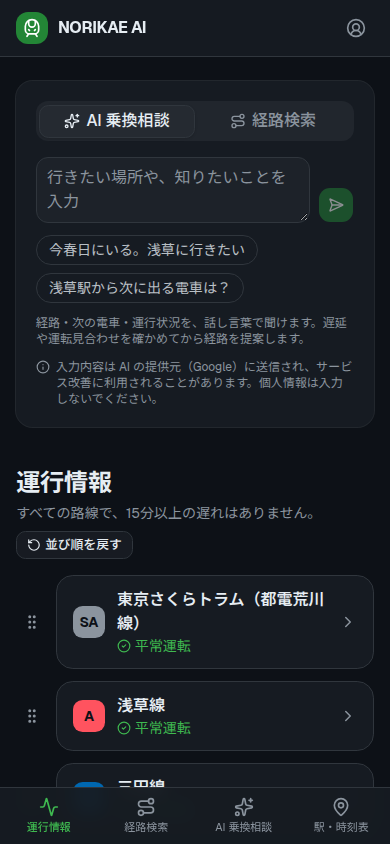
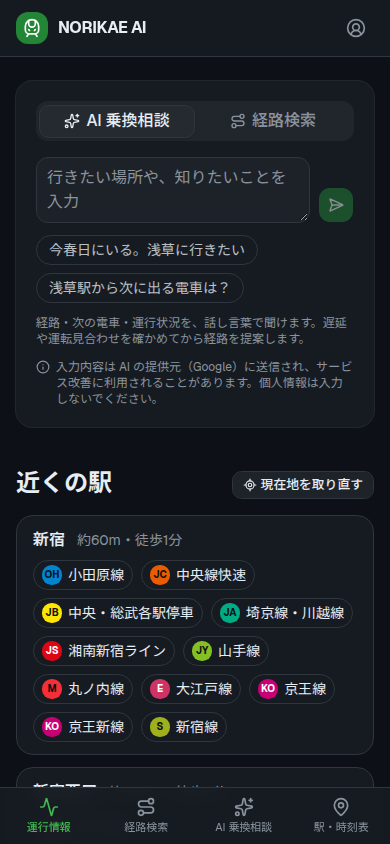
docs: ホームのスクリーンショットを、近くの駅の欄がある今の画面に撮り直す

Changed region(s): [[0.0308, 0.5545, 0.9231, 0.955], [0.0923, 0.9242, 0.1538, 0.955]]

diff --git a/README.md b/README.md
@@ -19,7 +19,7 @@
 
 運行情報や列車位置などの動的データと、駅時刻表・列車時刻表などの静的データを組み合わせ、各路線・駅の情報の閲覧、遅れを反映した経路検索、AI との会話による照会ができます。
 
-| 運行情報・AI 乗換相談 | 経路検索（乗り換える駅の中の案内） | 列車の現在位置 |
+| AI 乗換相談・近くの駅 | 経路検索（乗り換える駅の中の案内） | 列車の現在位置 |
 | --- | --- | --- |
 | ![運行情報](docs/images/home-sp.png) | ![経路検索](docs/images/journey-sp.png) | ![列車の現在位置](docs/images/train-sp.png) |
 
